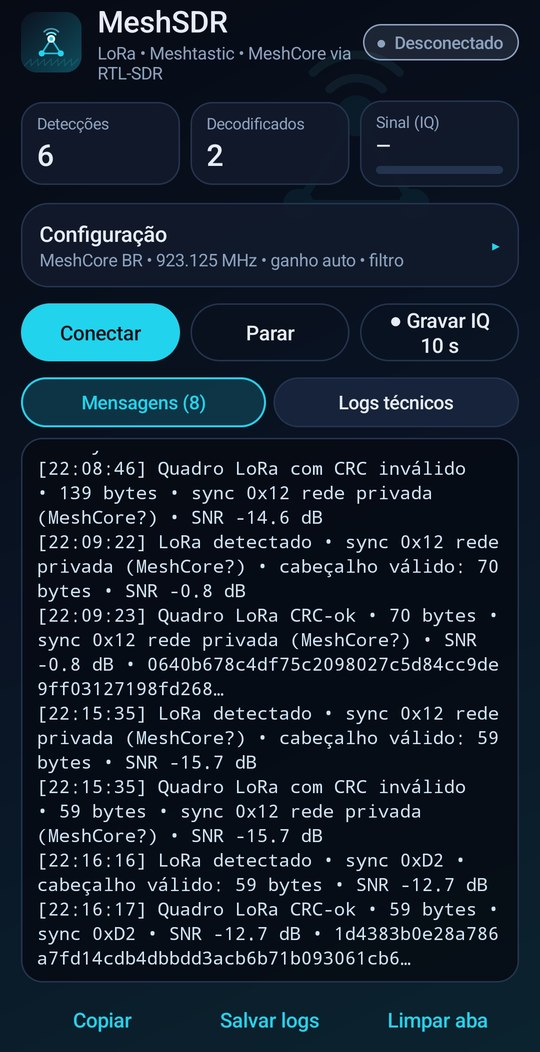
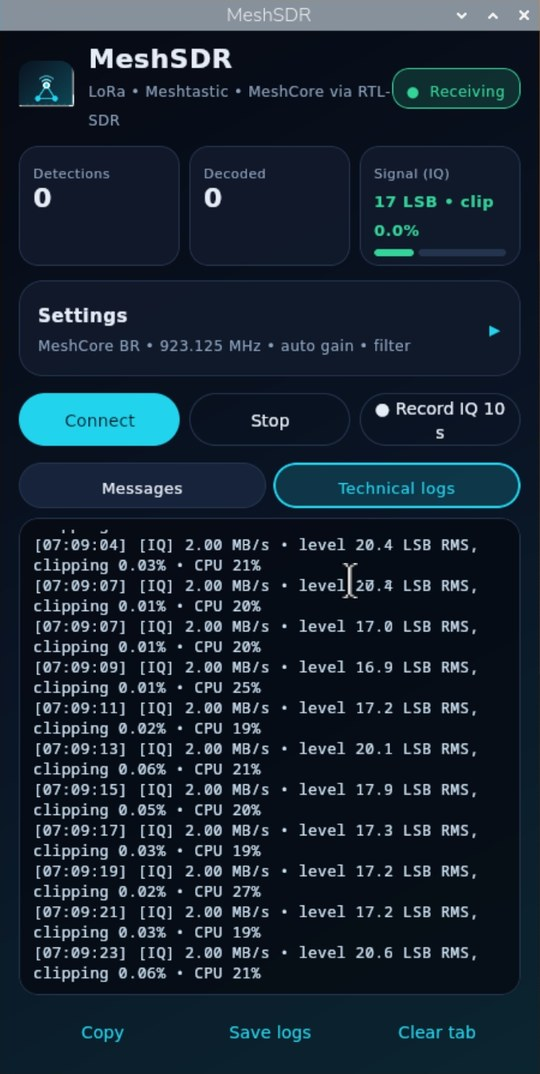
docs: Raspberry Pi 4B screenshot and tested desktop platforms
Replaces the Portuguese Android screenshot with the desktop app running
on a Raspberry Pi 4B, and lists the platforms the desktop app was tested
on: Linux Mint, Raspberry Pi 4B and Windows.

Claude-Session: https://claude.ai/code/session_01Rwj9WYZQkGZjpDQvtYFon9

diff --git a/README.md b/README.md
@@ -15,7 +15,8 @@ It demodulates LoRa in real time on the phone, with a native C++ PHY, and shows 
 **Meshtastic** and **MeshCore** mesh networks around you are transmitting. You don't need a
 LoRa radio, a PC or GNU Radio.
 
-<p align="center"><img src="docs/screenshot.jpg" alt="MeshSDR receiving MeshCore packets" width="300"></p>
+<p align="center"><img src="docs/screenshot.jpg" alt="MeshSDR desktop app receiving on a Raspberry Pi 4B" width="300"><br>
+<sub>The desktop app on a Raspberry Pi 4B, listening on the MeshCore BR channel at about 20% CPU.</sub></p>
 
 ## Features
 
@@ -84,6 +85,9 @@ Multiplatform window over the same C++ LoRa PHY and the same protocol code.
 - **Remote dongle:** turn off "start rtl_tcp" and type the address of any `rtl_tcp` server, e.g. a
   Raspberry Pi on the roof running `rtl_tcp -a 0.0.0.0`.
 - `--connect` starts receiving at launch, for unattended monitoring stations.
+
+Tested on **Linux Mint** (x64), **Raspberry Pi 4B** (64-bit Raspberry Pi OS, about 20% CPU
+on the MeshCore channel) and **Windows** on a recent Intel Core i7.
 
 Download the `.msi`, `.deb` or portable builds from the
 [latest release](https://github.com/engperini/MeshSDR-Android/releases/latest).
